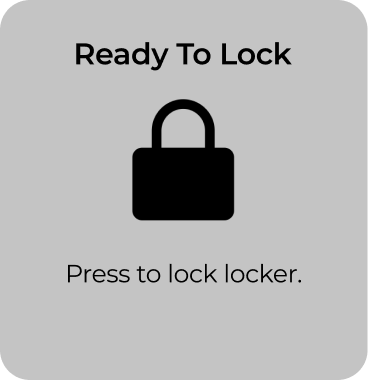
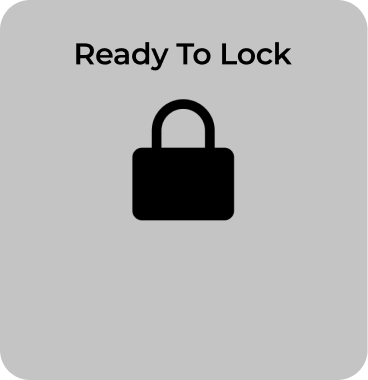
lockLocker styling

Changed region(s): [[0.1793, 0.6947, 0.8071, 0.7526]]

diff --git a/customerLeaving.html b/customerLeaving.html
@@ -6,7 +6,8 @@
         <style>
             .button {
                display: inline-flex;
-               height: 50px;
+               height: 80px;
+               width: 250px;
                padding: 0;
                background: #ffffff;
                border: none;
@@ -18,7 +19,6 @@
                font-weight: 600;
                cursor: pointer;
             }
-   
    
             .button:active {
                background: #979797;
@@ -35,7 +35,7 @@
             .lockButtonCenter {
                margin: 0;
                position: absolute;
-               top: 90%;
+               top: 75%;
                left: 50%;
                -ms-transform: translate(-50%, -50%);
                transform: translate(-50%, -50%);
@@ -75,20 +75,21 @@
             <img class="topLogo" src="./assets/simple-logo.png" alt="food locker logo" width=500px height=auto>
         </div>
         <div class="container" id="leavingContainer">
-            <div class="box2" id="leavingBox">
+            <!-- <div class="box2" id="leavingBox"> -->
                 <!-- <img src="./assets/gray-square.png" class="centerSquare" alt="gray square" > -->
-                <img src="./assets/lock.png" class="centerLock" alt="lock">
+                <!-- <img src="./assets/lock.png" class="centerLock" alt="lock">
                 <div class="scanText">Ready To Lock</div>
                 <div class="relockText">Close locker and tap to lock</div>
-                <div class="lockButtonContainer">
-                    <div class="lockButtonCenter">
-                      <button onclick="dbLockLocker()" type="button" class="button">
-                         <span class="button__text">Lock Locker</span>
-                       </button>
-                      </div>
-                 </div>
+                <div class="lockButtonContainer"> -->
+            <img class="bottomLogo" src="./assets/lockLocker.png">
+                <div class="lockButtonCenter">
+                    <button onclick="dbLockLocker()" type="button" class="button">
+                        <span class="button__text">Lock Locker</span>
+                    </button>
+                    </div>
+                 <!-- </div> -->
             </div>
         </div>
-        
+
    </body>
 </html>
